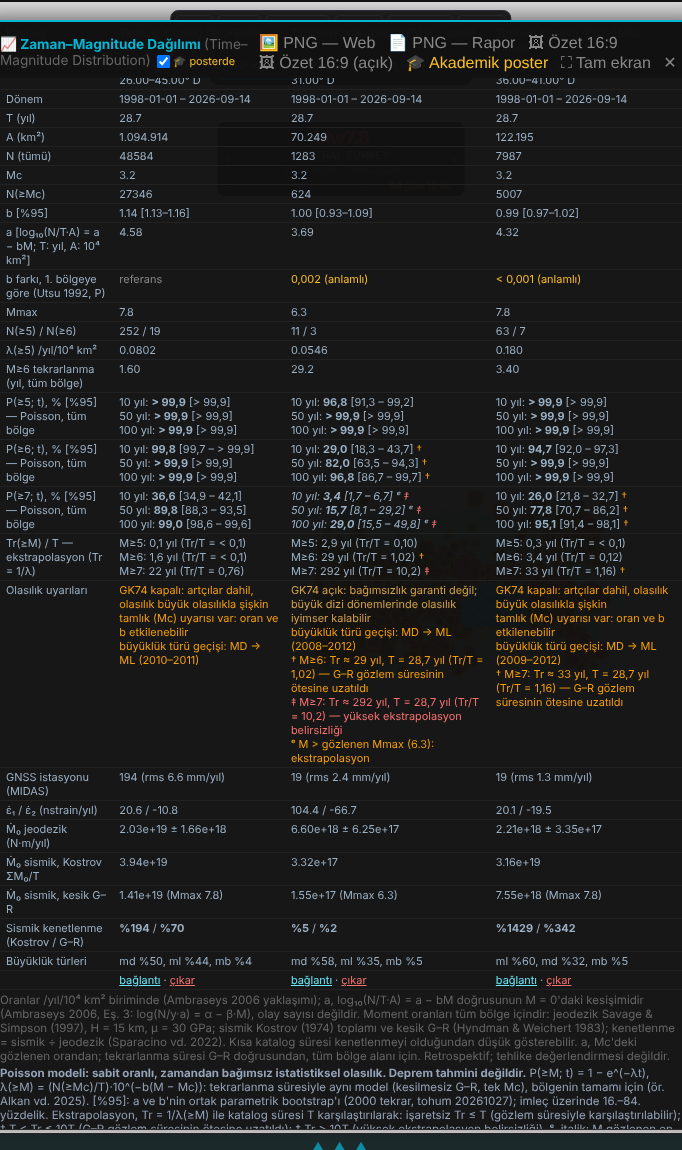
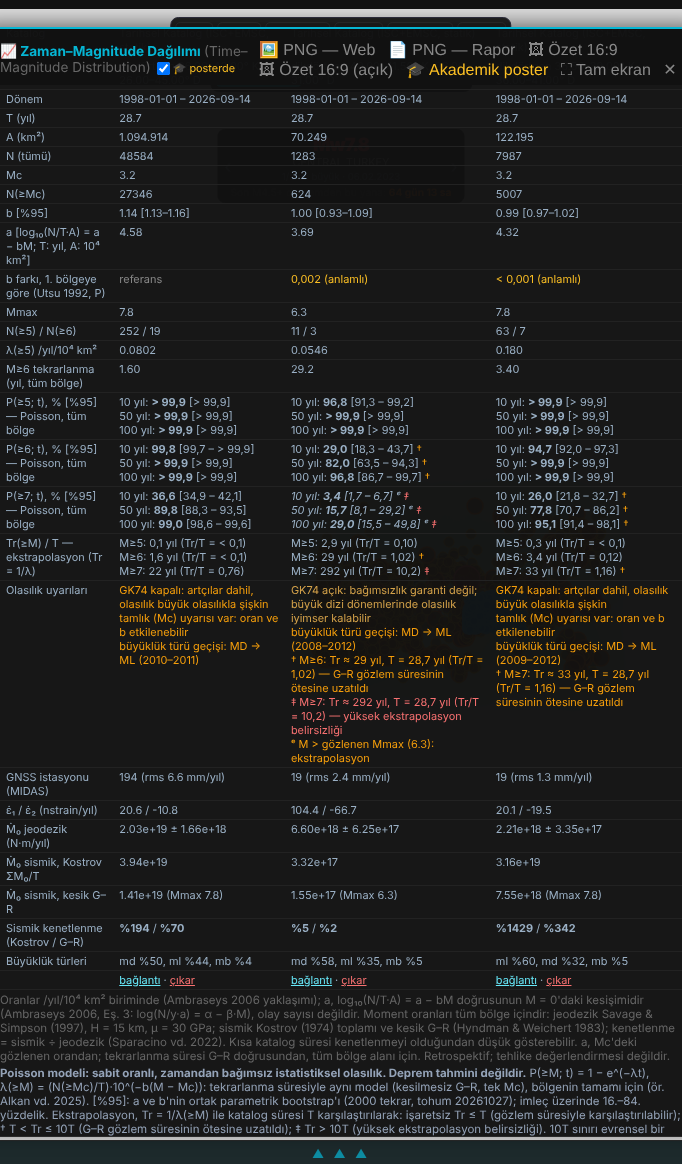
Olasılık modülü: 10T sınırı operasyonel ölçüt olarak açıklandı (altyazı EN/TR, tablo dipnotu)
Kullanıcı kararı (2026-11-01): 10T evrensel bir bilimsel eşik değil,
gözlem süresinin ötesine ekstrapolasyonun belirsizliğini sınıflandırmak
için kullanılan operasyonel bir ölçüttür. Yalnız metin; hesap değişmedi.

Testler: test_cmp_prob 44/44; tüm birim testleri 19/19; kabul 27/27.

Claude-Session: https://claude.ai/code/session_01UNMkcWFv5QgcQmvZTMC63m

Changed region(s): [[0.0, 0.0, 1.0, 1.0]]

diff --git a/index.html b/index.html
@@ -3802,7 +3802,7 @@ function cmpRender() {
   tbl.innerHTML = `<table style="border-collapse:collapse;width:100%;font-size:.95em;margin-top:4px;"><tr><th ${th}></th>${CMP.map((r, i) => `<th ${th}><span style="color:${CMP_COL[i]}">■</span> ${r.name.replace(/</g, '&lt;')}</th>`).join('')}</tr>` +
     rows.map(([k, fn]) => `<tr><td ${td} style="color:#94a3b8">${k}</td>${CMP.map((r, i) => `<td ${td}>${fn(r, S[i], i)}</td>`).join('')}</tr>`).join('') + '</table>' +
     `<div style="color:#666;margin-top:3px;">Oranlar ${uLab} biriminde (Ambraseys 2006 yaklaşımı); a, ${aLab} doğrusunun M = 0'daki kesişimidir (Ambraseys 2006, Eş. 3: log(N/y·a) = α − β·M), olay sayısı değildir. Moment oranları tüm bölge içindir: jeodezik Savage & Simpson (1997), H = ${cmpParams().H} km, μ = ${cmpParams().mu / 1e9} GPa; sismik Kostrov (1974) toplamı ve kesik G–R (Hyndman & Weichert 1983); kenetlenme = sismik ÷ jeodezik (Sparacino vd. 2022). Kısa katalog süresi kenetlenmeyi olduğundan düşük gösterebilir. a, Mc'deki gözlenen orandan; tekrarlanma süresi G–R doğrusundan, tüm bölge alanı için. Retrospektif; tehlike değerlendirmesi değildir.</div>` +
-    `<div style="color:#94a3b8;margin-top:3px;"><b>Poisson modeli: sabit oranlı, zamandan bağımsız istatistiksel olasılık. Deprem tahmini değildir.</b> P(≥M; t) = 1 − e^(−λt), λ(≥M) = (N(≥Mc)/T)·10^(−b(M − Mc)): tekrarlanma süresiyle aynı model (kesilmesiz G–R, tek Mc), bölgenin tamamı için (ör. Alkan vd. 2025). [%95]: a ve b'nin ortak parametrik bootstrap'ı (${[...new Set(PR.filter(Boolean).map(p => p.bt.B))].length > 1 ? 'tekrar sayısı bölgeye göre: ' + CMP.map((r, i) => PR[i] ? `${r.name.replace(/</g, '&lt;')} ${PR[i].bt.B}` : null).filter(Boolean).join(', ') : (PR.find(Boolean) ? PR.find(Boolean).bt.B : GR_POIS.B) + ' tekrar'}, tohum ${GR_POIS.seed}); imleç üzerinde 16.–84. yüzdelik. Ekstrapolasyon, Tr = 1/λ(≥M) ile katalog süresi T karşılaştırılarak: işaretsiz Tr ≤ T (gözlem süresiyle karşılaştırılabilir); † T < Tr ≤ ${CMP_PROB.exK}T (G–R gözlem süresinin ötesine uzatıldı); ‡ Tr > ${CMP_PROB.exK}T (yüksek ekstrapolasyon belirsizliği). ᵉ, italik: M gözlenen en büyük büyüklüğün üstünde. Olay bağımsızlığı varsayılır; GK74 bunu garanti etmez.</div>`;
+    `<div style="color:#94a3b8;margin-top:3px;"><b>Poisson modeli: sabit oranlı, zamandan bağımsız istatistiksel olasılık. Deprem tahmini değildir.</b> P(≥M; t) = 1 − e^(−λt), λ(≥M) = (N(≥Mc)/T)·10^(−b(M − Mc)): tekrarlanma süresiyle aynı model (kesilmesiz G–R, tek Mc), bölgenin tamamı için (ör. Alkan vd. 2025). [%95]: a ve b'nin ortak parametrik bootstrap'ı (${[...new Set(PR.filter(Boolean).map(p => p.bt.B))].length > 1 ? 'tekrar sayısı bölgeye göre: ' + CMP.map((r, i) => PR[i] ? `${r.name.replace(/</g, '&lt;')} ${PR[i].bt.B}` : null).filter(Boolean).join(', ') : (PR.find(Boolean) ? PR.find(Boolean).bt.B : GR_POIS.B) + ' tekrar'}, tohum ${GR_POIS.seed}); imleç üzerinde 16.–84. yüzdelik. Ekstrapolasyon, Tr = 1/λ(≥M) ile katalog süresi T karşılaştırılarak: işaretsiz Tr ≤ T (gözlem süresiyle karşılaştırılabilir); † T < Tr ≤ ${CMP_PROB.exK}T (G–R gözlem süresinin ötesine uzatıldı); ‡ Tr > ${CMP_PROB.exK}T (yüksek ekstrapolasyon belirsizliği). ${CMP_PROB.exK}T sınırı evrensel bir bilimsel eşik değil, ekstrapolasyon belirsizliğini sınıflandırmak için kullanılan operasyonel bir ölçüttür. ᵉ, italik: M gözlenen en büyük büyüklüğün üstünde. Olay bağımsızlığı varsayılır; GK74 bunu garanti etmez.</div>`;
   try { cmpProbFigRender(S, PR); } catch (e) { console.warn('[cmpProbFig]', e); }   // yayın şekli (olasılık eğrileri); hata tabloyu etkilemez
 }
 // ══ Yayın şekli: Poisson aşılma olasılığı eğrileri (2026-11-01) ═══════════════════════════════════════════════════════════════════════════════
@@ -3893,8 +3893,8 @@ function cmpProbFigCaption(S, PR, en, band) {
   const L = (tr, e) => en ? e : tr, num = (v, d) => en ? v.toFixed(d) : v.toFixed(d).replace('.', ','), B = PR.find(p => p) ? PR.find(p => p).bt : null;
   const reg = CMP.map((r, i) => `(${String.fromCharCode(97 + i)}) ${r.name} [${r.src}; ${new Date(r.t0).toISOString().slice(0, 10)} – ${new Date(r.t1).toISOString().slice(0, 10)}; A = ${Math.round(r.area || 0).toLocaleString(en ? 'en-US' : 'tr-TR')} km²; GK74 ${r.gk74 === true ? L('açık', 'on') : r.gk74 === false ? L('kapalı', 'off') : L('bilinmiyor', 'unknown')}]`).join('; ');
   const ts = CMP_PROB.tFig.join(', ').replace(/, (\d+)$/, L(' ve $1', ' and $1'));
-  return L(`Şekil. Zamandan bağımsız Poisson modeline göre t = ${ts} yıl içinde büyüklüğü ≥ M olan en az bir deprem olma olasılığı, P(≥M; t) = 1 − exp[−λ(≥M)·t], bölgenin tamamı için: ${reg}. λ(≥M) = (N(≥Mc)/T)·10^[−b(M − Mc)]; b Aki–Utsu en çok olabilirlik kestirimi, Mc tek tamlık eşiği. Gölgeli alanlar: a ve b'nin ortak parametrik bootstrap'ından ${bTr}${B ? ` (${cmpProbBTxt(PR, false)}, tohum ${B.seed})` : ''}. Kesikli çizgiler: gözlenen en büyük büyüklüğün üstünde ekstrapolasyon. Düz dikey çizgi: ortalama tekrarlanma süresi Tr = 1/λ(≥M) katalog süresi T'ye eşit (M = Mc + log₁₀N/b); sağında G–R gözlem süresinin ötesine uzatılır. Gri alan: Tr > ${CMP_PROB.exK}T, yüksek ekstrapolasyon belirsizliği. Model sabit oranlı ve olay bağımsızlığı varsayar (GK74 bunu garanti etmez); deprem tahmini değildir. Kaynak: EQ-Live Türkiye.`,
-    `Figure. Probability of at least one earthquake with magnitude ≥ M within t = ${ts} years under a time-independent Poisson model, P(≥M; t) = 1 − exp[−λ(≥M)·t], for the whole of each region: ${reg}. λ(≥M) = (N(≥Mc)/T)·10^[−b(M − Mc)]; b is the Aki–Utsu maximum-likelihood estimate and Mc a single completeness magnitude. Shaded bands: ${bEn} from a joint parametric bootstrap of a and b${B ? ` (${cmpProbBTxt(PR, true)}, seed ${B.seed})` : ''}. Dashed lines: extrapolation beyond the largest observed magnitude. Solid vertical line: magnitude at which the mean recurrence interval Tr = 1/λ(≥M) equals the catalogue duration T (M = Mc + log₁₀N/b); to its right the G–R relation is extended beyond the observation period. Grey area: Tr > ${CMP_PROB.exK}T, high extrapolation uncertainty. The model assumes a constant rate and independent events (GK74 declustering does not guarantee independence); it is not an earthquake forecast. Source: EQ-Live Türkiye.`);
+  return L(`Şekil. Zamandan bağımsız Poisson modeline göre t = ${ts} yıl içinde büyüklüğü ≥ M olan en az bir deprem olma olasılığı, P(≥M; t) = 1 − exp[−λ(≥M)·t], bölgenin tamamı için: ${reg}. λ(≥M) = (N(≥Mc)/T)·10^[−b(M − Mc)]; b Aki–Utsu en çok olabilirlik kestirimi, Mc tek tamlık eşiği. Gölgeli alanlar: a ve b'nin ortak parametrik bootstrap'ından ${bTr}${B ? ` (${cmpProbBTxt(PR, false)}, tohum ${B.seed})` : ''}. Kesikli çizgiler: gözlenen en büyük büyüklüğün üstünde ekstrapolasyon. Düz dikey çizgi: ortalama tekrarlanma süresi Tr = 1/λ(≥M) katalog süresi T'ye eşit (M = Mc + log₁₀N/b); sağında G–R gözlem süresinin ötesine uzatılır. Gri alan: Tr > ${CMP_PROB.exK}T, yüksek ekstrapolasyon belirsizliği. ${CMP_PROB.exK}T sınırı evrensel olarak kabul edilmiş bir bilimsel eşik değil, gözlem süresinin ötesine yapılan ekstrapolasyonun belirsizliğini sınıflandırmak için kullanılan operasyonel bir değerlendirme ölçütüdür. Model sabit oranlı ve olay bağımsızlığı varsayar (GK74 bunu garanti etmez); deprem tahmini değildir. Kaynak: EQ-Live Türkiye.`,
+    `Figure. Probability of at least one earthquake with magnitude ≥ M within t = ${ts} years under a time-independent Poisson model, P(≥M; t) = 1 − exp[−λ(≥M)·t], for the whole of each region: ${reg}. λ(≥M) = (N(≥Mc)/T)·10^[−b(M − Mc)]; b is the Aki–Utsu maximum-likelihood estimate and Mc a single completeness magnitude. Shaded bands: ${bEn} from a joint parametric bootstrap of a and b${B ? ` (${cmpProbBTxt(PR, true)}, seed ${B.seed})` : ''}. Dashed lines: extrapolation beyond the largest observed magnitude. Solid vertical line: magnitude at which the mean recurrence interval Tr = 1/λ(≥M) equals the catalogue duration T (M = Mc + log₁₀N/b); to its right the G–R relation is extended beyond the observation period. Grey area: Tr > ${CMP_PROB.exK}T, high extrapolation uncertainty. The ${CMP_PROB.exK}T bound is not a universally accepted scientific threshold but an operational criterion for classifying the uncertainty of extrapolation beyond the observation period. The model assumes a constant rate and independent events (GK74 declustering does not guarantee independence); it is not an earthquake forecast. Source: EQ-Live Türkiye.`);
 }
 let cmpProbFigLast = null;
 function cmpProbFigRender(S, PR) {

diff --git a/analysis/poisson_olasilik/kabul_cmp_prob.js b/analysis/poisson_olasilik/kabul_cmp_prob.js
@@ -74,6 +74,7 @@ const BOLGE = [[36, 26, 42, 45, false, 'Türkiye'], [40, 26, 41.5, 31, true, 'Ma
         const b2 = hucre(2000), b5 = hucre(5000); GR_POIS.B = 2000; cmpProbCache.clear();
         const gr = CMP.map((r, i) => { const g = grPoissonBootSimple(S[i].n, S[i].T, S[i].b, r.Mc, r.dm || 0.1, 7, 50), c = cmpProb(r, S[i]).cell(7, 50); return { lo: g.pLo, hi: g.pHi, clo: c.lo, chi: c.hi, B: g.B }; });
         return { b2, b5, gr }; });
+      R.dipnot = await p.evaluate(() => document.getElementById('cmpTable').innerText);
       R.dugme = await p.evaluate(() => [...document.querySelectorAll('#cmpProbFig button')].map(b => b.textContent).join(' | '));
       R.fig68 = await p.evaluate(() => { cmpProbFigBand = '68'; cmpRender(); return document.getElementById('cmpProbFigSvg').innerHTML; });
       const fEl2 = await p.$('#cmpProbFigSvg'); await fEl2.screenshot({ path: path.join(__dirname, 'cmp_sekil_68.png') });
@@ -114,6 +115,7 @@ const BOLGE = [[36, 26, 42, 45, false, 'Türkiye'], [40, 26, 41.5, 31, true, 'Ma
   { const k = R.kayit[1], tr7 = k.T / (k.n * Math.pow(10, -k.b * (7 - k.Mc))), u = Y.tablo['Olasılık uyarıları'][1];
     ok(tr7 / k.T > 10 && /‡ M≥7: Tr ≈ .* yüksek ekstrapolasyon belirsizliği/.test(u), `(7) Marmara M≥7: Tr ≈ ${tr7.toFixed(0)} yıl, T = ${k.T.toFixed(1)} yıl (Tr/T = ${(tr7 / k.T).toFixed(2)}) → ‡ belirgin uyarı`); }
   ok((F.match(/<tspan dy="-1\.5"> = T<\/tspan>/g) || []).length === 3 && /fill-opacity="0\.06"/.test(F) && /Grey area: Tr > 10T/.test(R.cap.en), '(7) şekil: her panelde Tr = T çizgisi, Tr > 10T gri zemin, lejant ve altyazı');
+  ok(/operational criterion/.test(R.cap.en) && /operasyonel bir değerlendirme ölçütüdür/.test(R.cap.tr) && /operasyonel bir ölçüttür/.test(JSON.stringify(R.dipnot || '')), '(7) 10T sınırı altyazıda (EN/TR) ve tablo dipnotunda operasyonel ölçüt olarak belirtiliyor');
   ok(R.cap && /not an earthquake forecast/.test(R.cap.en) && /deprem tahmini değildir/.test(R.cap.tr) && /\(c\) Doğu Anadolu/.test(R.cap.en), '(4) altyazı EN/TR, üç bölge');
   ok(!O.fig, '(4) önce (main) yayın şekli yok');
   // (8) aşama 3: NegBin, B = 2000, sağlamlık B = 5000

diff --git a/scripts/test_cmp_prob.js b/scripts/test_cmp_prob.js
@@ -100,7 +100,7 @@ function kayit(seed, T, lam0, b, Mc, extra) { const r = X.mulberry32(seed), n = 
   ok(m1 > r1.Mc && mK - m1 > 0.9 && /fill-opacity="0\.06"/.test(svg) && /<tspan dy="-1\.5"> = T<\/tspan>/.test(svg) && /= T \(catalogue duration\)/.test(svg) && /&gt; 10T<\/tspan>/.test(svg) && /&gt; 10T: high extrapolation uncertainty/.test(svg), `(h) şekil: Tr = T (M ${m1.toFixed(2)}) çizgisi ve Tr > 10T (M ${mK.toFixed(2)}) gri zemin, lejantta`);
   const cT = PR[0].cell(+(m1 - 0.01).toFixed(3), 10), cU = PR[0].cell(+(m1 + 0.01).toFixed(3), 10), cY = PR[0].cell(+(mK + 0.01).toFixed(3), 10);
   ok(cT.exC === 'gozlem' && cU.exC === 'uzatma' && cY.exC === 'yuksek', '(h) hücre sınıfı şekildeki sınırlarla aynı (M_T − 0,01 gözlem, + 0,01 uzatma; M_10T + 0,01 yüksek)');
-  ok(/Solid vertical line: magnitude at which the mean recurrence interval Tr = 1\/λ\(≥M\) equals the catalogue duration T/.test(cap) && /Grey area: Tr > 10T/.test(cap) && /Gri alan: Tr > 10T/.test(capTr), '(h) altyazı Tr = T ve Tr > 10T ölçütünü açıklıyor (EN/TR)'); }
+  ok(/Solid vertical line: magnitude at which the mean recurrence interval Tr = 1\/λ\(≥M\) equals the catalogue duration T/.test(cap) && /Grey area: Tr > 10T/.test(cap) && /Gri alan: Tr > 10T/.test(capTr) && /10T bound is not a universally accepted scientific threshold but an operational criterion/.test(cap) && /10T sınırı evrensel olarak kabul edilmiş bir bilimsel eşik değil/.test(capTr), '(h) altyazı Tr = T ve Tr > 10T ölçütünü açıklıyor; 10T operasyonel ölçüt olarak belirtiliyor (EN/TR)'); }
 { // (i) NegBin örnekleyici
   const r = kayit(7, 40, 30, 1.0, 4.0), s = X.cmpStats(r), bt = X.cmpProbBoot(s.n, s.T, s.b, r.Mc, 0.1), g = X.grBootDraws(s.n, s.b, r.Mc, 0.1, X.GR_POIS.B, X.GR_POIS.seed);
   ok(JSON.stringify(bt.D) === JSON.stringify(g.D) && bt.B === 2000 && bt.sampler === 'NegBin (Gamma–Poisson)', `(i) bölge karşılaştırması = G–R paneli: aynı grBootDraws çekilişleri (B = ${bt.B}, ${bt.sampler})`);
